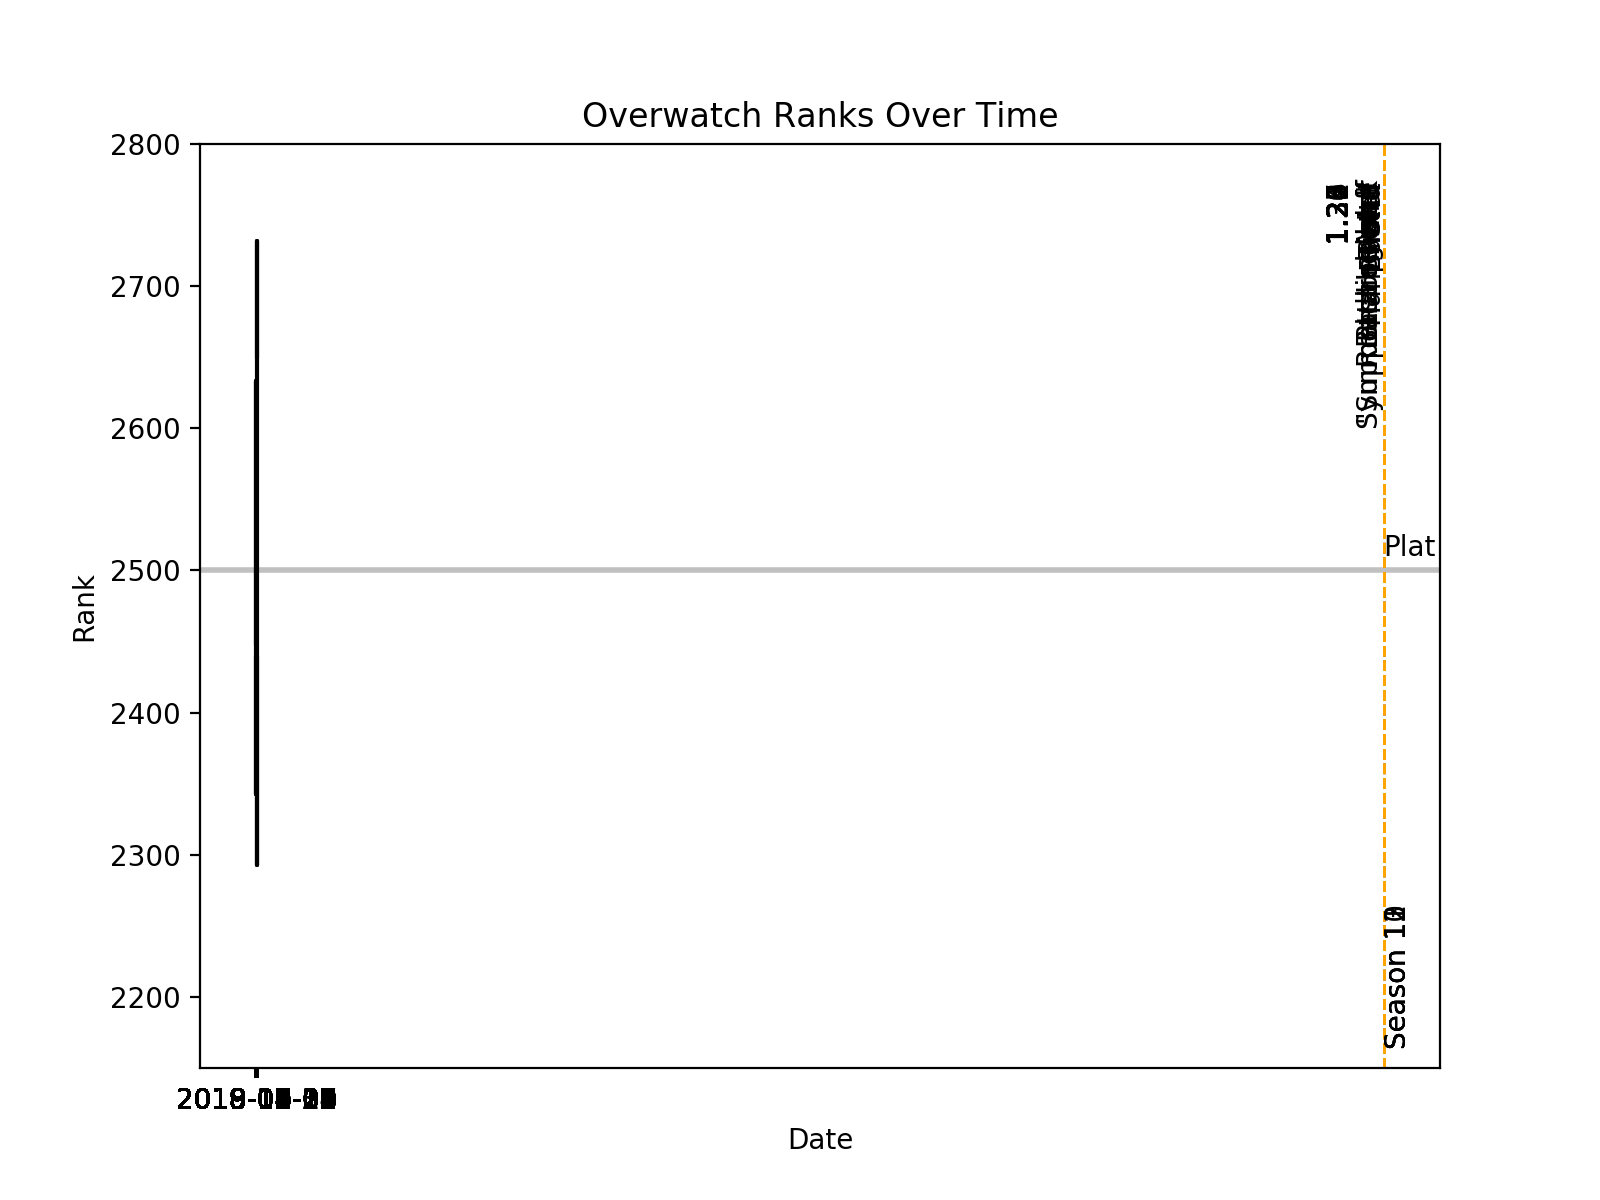
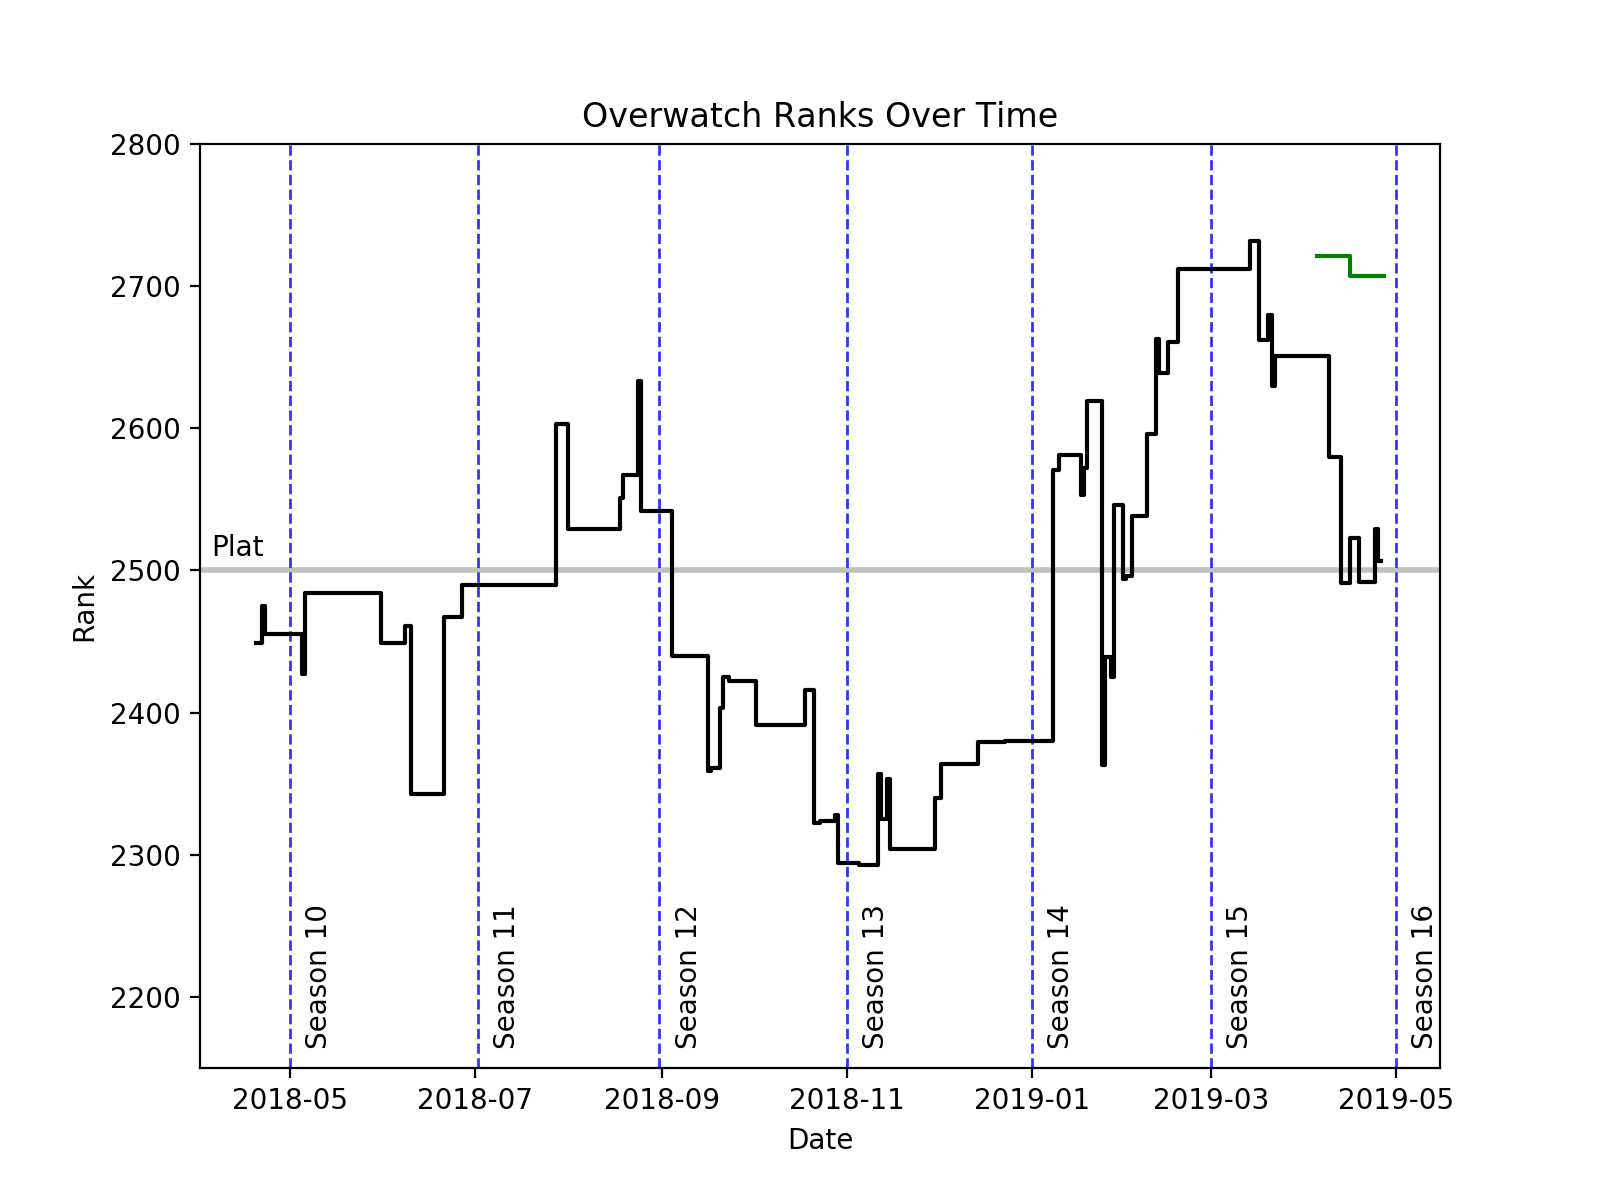
Updated items and modified OW plotting

diff --git a/plot_ow_ranks.py b/plot_ow_ranks.py
@@ -1,18 +1,20 @@
 import matplotlib as mpl
 mpl.use("Agg")
 import matplotlib.pyplot as plt
-import numpy as np
 from astropy.time import Time
 from astropy.io import ascii
-ranks= ascii.read("ow_ranks.txt", delimiter=":",
-                  names=("Time", "PC", "Xbox"))
+ranks = ascii.read("ow_ranks.txt", delimiter=":",
+                   names=("Time", "PC", "Xbox"))
+print(ranks)
 good_values = ranks["PC"] != 0
 xgood_values = ranks["Xbox"] != 0
 fig = plt.figure(figsize=(8, 6), dpi=200)
 ax = fig.gca()
-ax.plot_date(ranks["Time"][good_values], ranks["PC"][good_values], "k-", tz=None,
+ax.plot_date(Time(ranks["Time"][good_values]).plot_date,
+             ranks["PC"][good_values], "k-", tz=None,
              xdate=True, ydate=False, drawstyle="steps-post", zorder=100)
-ax.plot_date(ranks["Time"][xgood_values], ranks["Xbox"][xgood_values], "g-",
+ax.plot_date(Time(ranks["Time"][xgood_values]).plot_date,
+             ranks["Xbox"][xgood_values], "g-",
              tz=None,
              xdate=True, ydate=False, drawstyle="steps-post", zorder=99)
 
@@ -21,26 +23,27 @@ ax.set_xlabel("Date")
 ax.set_ylabel("Rank")
 ax.axhline(2000, c="gold", linewidth=2)
 ax.axhline(2500, c="silver", linewidth=2)
-ax.annotate("Plat", (Time("2018-04-15").plot_date, 2510))
-seasons = ["2018-05-01", "2018-07-02", "2018-08-31", "2018-11-01"]
+ax.annotate("Plat", (Time("2018-04-05").plot_date, 2510))
+seasons = ["2018-05-01", "2018-07-02", "2018-08-31", "2018-11-01", "2019-01-01",
+           '2019-03-01', '2019-05-01']
 for i, date in enumerate(seasons):
     ax.axvline(Time(date).plot_date, c="b", linewidth=1, linestyle="--",
                alpha=0.8)
     ax.annotate(f"Season {i+10:.0f}", (Time(date).plot_date+5, 2250),
                 rotation=90)
-patches = np.arange(1.23, 1.33, 0.01)
-patch_notes = ["Rialto", "Petra", "Symmetra rework", "Hammond",
-               '"Support Update"', "Roadhog nerf",
-               "Pharah buff", "Ashe", "Bastion buff", "Bastet"]
-patch_dates = ["2018-05-03", "2018-05-22", "2018-06-26", "2018-07-24",
-               "2018-08-09", "2018-09-11", "2018-10-09", "2018-11-13",
-               "2018-12-11", "2019-01-08"]
-for patch, note, date in zip(patches, patch_notes, patch_dates):
-    ax.axvline(Time(date).plot_date, c="orange", alpha=0.8, linewidth=1,
-               linestyle="--")
-    ax.annotate(f"{patch:.2f}\n{note}", (Time(date).plot_date+15, 2775),
-                xycoords="data", rotation=90,
-                horizontalalignment="right", verticalalignment="top")
+# patches = np.arange(1.23, 1.33, 0.01)
+# patch_notes = ["Rialto", "Petra", "Symmetra rework", "Hammond",
+#                '"Support Update"', "Roadhog nerf",
+#                "Pharah buff", "Ashe", "Bastion buff", "Bastet"]
+# patch_dates = ["2018-05-03", "2018-05-22", "2018-06-26", "2018-07-24",
+#                "2018-08-09", "2018-09-11", "2018-10-09", "2018-11-13",
+#                "2018-12-11", "2019-01-08"]
+# for patch, note, date in zip(patches, patch_notes, patch_dates):
+#     ax.axvline(Time(date).plot_date, c="orange", alpha=0.8, linewidth=1,
+#                linestyle="--")
+#     ax.annotate(f"{patch:.2f}\n{note}", (Time(date).plot_date+20, 2775),
+#                 xycoords="data", rotation=90,
+#                 horizontalalignment="right", verticalalignment="top")
 
 ax.set_ylim(2150, 2800)
 fig.savefig("ow_ranks.png")

diff --git a/get_csgo_rank.py b/get_csgo_rank.py
@@ -1,9 +1,12 @@
 #!/home/pi/berryconda3/bin/python
-"""This function grabs my CS:GO rank and saves it to a file"""
+"""This function grabs my CS:GO rank and saves it to a file. It pulls from
+two different websites because CS:GO's API is difficult and doesn't help
+anyone. """
 import requests
 import datetime
 import os
 from bs4 import BeautifulSoup
+
 now = datetime.datetime.now()
 print("Get CS:GO Rank started at {}".format(now))
 # Download CS:GO's API and access stats, but not skill group
@@ -28,7 +31,7 @@ except KeyError:
 
 csgo_stats = requests.get("https://csgo-stats.com/player/76561198199499279")
 soup = BeautifulSoup(csgo_stats.content, "html.parser")
-rank_img = soup.find("div", class_="player-profile-banner")
+rank_img = soup.find("img", class_="img-rank")
 skill_group = rank_img.get("title")
 
 archive_path = os.path.join(os.path.dirname(os.path.abspath(__file__)),

diff --git a/get_ow_rank.py b/get_ow_rank.py
@@ -33,6 +33,6 @@ with open(rank_path, "r") as fil:
 if need_rank:
     with open(rank_path, "a") as fil:
         print("    Writing new SR")
-        fil.write("{}: {}: {}".format(now.date(), rank, xbl_rank))
+        fil.write("{}: {}: {}\n".format(now.date(), rank, xbl_rank))
 else:
     print("    SR already written today")

diff --git a/README.md b/README.md
@@ -1,5 +1,6 @@
 # Gaming
 This is a repository to download my Overwatch Rank daily, and create a plot of it. It can easily be replaced with another person's account if you modify the url in get_ow_ranks.py. Weird things happen between seasons, but they are inherent and are resolved in the plotting methods.
 
+It also tracks CS:GO, but for CS:GO it must use 2 different website because CS:GO's API isn't great.
 ## TODO
-Add Counterstrike to this and track both ranks in the same repo.
+
